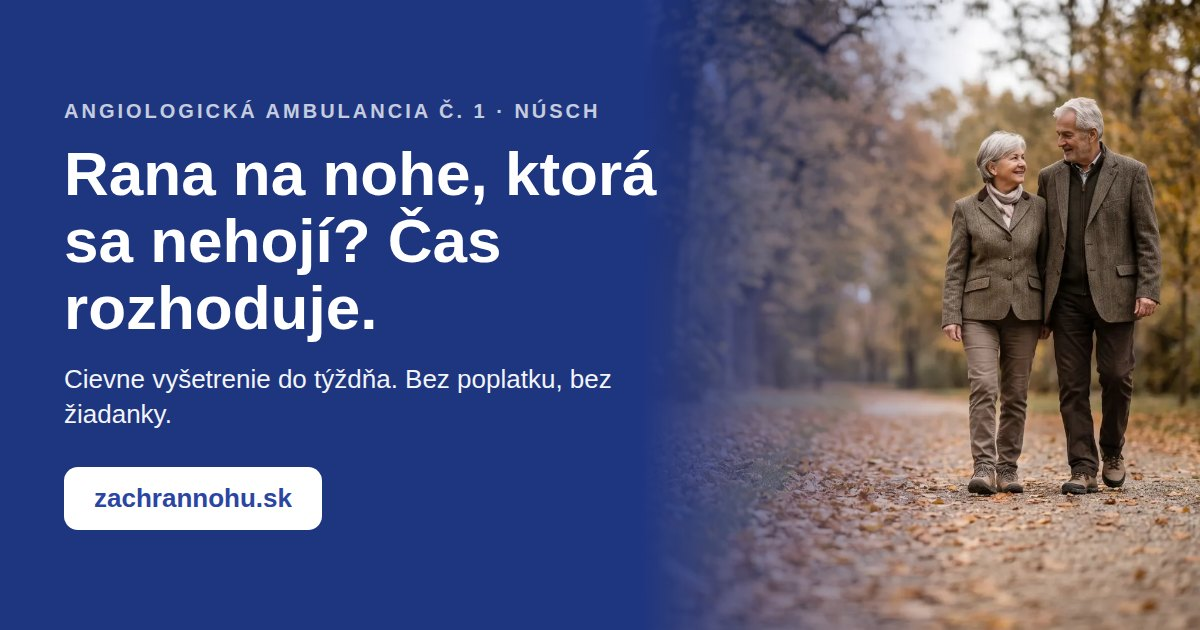
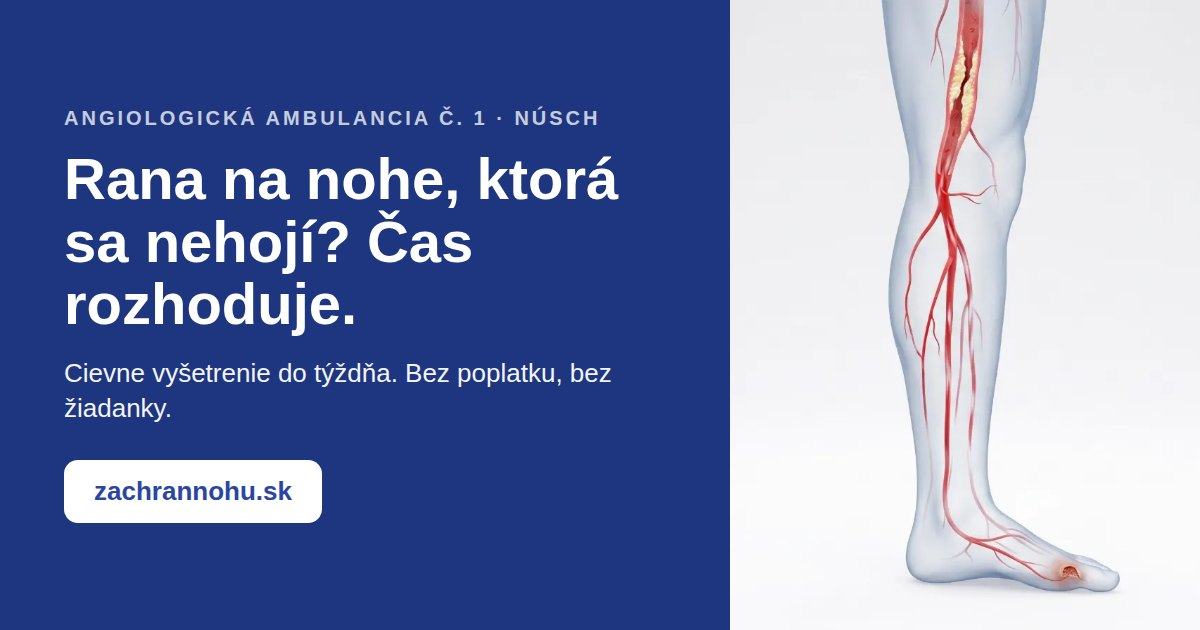
v98: „Zachráň nohu" – hero s 3D nohou, pár v záverečnej výzve
- hero ako dvojdielna karta: vľavo modrý panel s textom a čipmi (bez poplatku,
  bez žiadanky, termín do 7 dní, 15–20 min), vpravo svetlý panel s 3D nohou
  od okraja po okraj; na mobile noha pod textom
- „Prečo sa rana nehojí": detail zúženia (CSS výrez tej istej fotky) s popiskom
- záverečná výzva: fotka páru ako pozadie s modrým prekryvom (hero.webp → par.webp)
- og.jpg: nový koncept s nohou na svetlom paneli; APP_VERSION v98

Claude-Session: https://claude.ai/code/session_01GJei1xHoN9W4WKPBHnr7AA

diff --git a/src/zachrannohu.jsx b/src/zachrannohu.jsx
@@ -71,12 +71,12 @@ const goTo = (id) => (e) => {
 
 // fotografie v public/zachrannohu/*.webp (base podľa buildu: / alebo /beta/)
 const IMG = (name) => `${import.meta.env.BASE_URL}zachrannohu/${name}.webp`;
-function Photo({ name, alt, className = "", fallback = null, eager = false }) {
+function Photo({ name, alt, className = "", fallback = null, eager = false, testId = null, rounded = true }) {
   const [failed, setFailed] = useState(false);
   if (failed) return fallback;
   return (
     <img src={IMG(name)} alt={alt} loading={eager ? "eager" : "lazy"} decoding="async" onError={() => setFailed(true)}
-      data-testid={`img-${name}`} className={`block w-full h-auto object-cover rounded-[12px] ${className}`} />
+      data-testid={testId || `img-${name}`} className={`block w-full h-auto object-cover ${rounded ? "rounded-[12px]" : ""} ${className}`} />
   );
 }
 
@@ -180,20 +180,27 @@ export default function ZachranNohuLanding({ landing, exam, children }) {
         </div>
       </nav>
 
-      {/* hero */}
-      <header id="hero" className="relative overflow-hidden rounded-[15px] bg-gradient-to-r from-[#1E3580] to-[#2B46A2] text-white p-6 md:p-10 shadow-[0_2px_12px_rgba(0,0,0,0.08)] grid md:grid-cols-[3fr_2fr] gap-6 items-center">
-        <div>
-        <p className="text-[11px] md:text-xs font-bold tracking-widest text-white/70 uppercase">Angiologická ambulancia č. 1 · NÚSCH, a.s.</p>
-        <h1 data-testid="landing-title" className="text-3xl md:text-5xl font-extrabold leading-tight mt-2 max-w-2xl">Rana na nohe, ktorá sa nehojí? Čas rozhoduje.</h1>
-        <p className="text-base md:text-lg text-white/95 mt-3 max-w-xl">Rýchle cievne vyšetrenie <b>do týždňa</b>. Bez poplatku, bez žiadanky, 15 – 20 minút. Zistíme, či je príčinou nehojacej sa rany <b>zlé prekrvenie</b> — a nasmerujeme vás tam, kde vám pomôžu.</p>
-        <div className="flex flex-wrap gap-3 mt-5">
-          <a href="#objednat" onClick={goTo("objednat")} data-testid="landing-cta" className="inline-block bg-white text-[#2B46A2] font-bold text-base px-6 py-3 rounded-[12px] shadow hover:bg-[#F0F4FF]">
-            {landing?.cta || "Objednať sa — termín do týždňa"} ›
-          </a>
-          <a href="#samotest" onClick={goTo("samotest")} className="inline-block border-2 border-white/70 text-white font-semibold text-base px-5 py-3 rounded-[12px] hover:bg-white/10">Zistiť, či sa mám objednať ↓</a>
+      {/* hero: vľavo modrý panel s textom, vpravo svetlý panel s 3D nohou od okraja po okraj */}
+      <header id="hero" className="relative overflow-hidden rounded-[15px] shadow-[0_2px_12px_rgba(0,0,0,0.08)] grid md:grid-cols-[11fr_9fr]">
+        <div className="bg-gradient-to-br from-[#1E3580] to-[#2B46A2] text-white p-6 md:p-10 flex flex-col justify-center md:min-h-[440px]">
+          <p className="text-[11px] md:text-xs font-bold tracking-widest text-white/70 uppercase">Angiologická ambulancia č. 1 · NÚSCH, a.s.</p>
+          <h1 data-testid="landing-title" className="text-3xl md:text-[2.75rem] font-extrabold leading-tight mt-3">Rana na nohe, ktorá sa nehojí? Čas rozhoduje.</h1>
+          <p className="text-base md:text-lg text-white/95 mt-4">Zistíme, či je príčinou <b>zlé prekrvenie</b>, a nasmerujeme vás tam, kde vám pomôžu.</p>
+          <ul className="flex flex-wrap gap-2 mt-4" aria-label="Základné informácie">
+            {["bez poplatku", "bez žiadanky", "termín do 7 dní", "15 – 20 minút"].map((c) => (
+              <li key={c} className="text-xs md:text-sm font-semibold bg-white/15 border border-white/30 rounded-full px-3 py-1">{c}</li>
+            ))}
+          </ul>
+          <div className="flex flex-wrap gap-3 mt-6">
+            <a href="#objednat" onClick={goTo("objednat")} data-testid="landing-cta" className="inline-block bg-white text-[#2B46A2] font-bold text-base px-6 py-3 rounded-[12px] shadow hover:bg-[#F0F4FF]">
+              {landing?.cta || "Objednať sa — termín do týždňa"} ›
+            </a>
+            <a href="#samotest" onClick={goTo("samotest")} className="inline-block border-2 border-white/70 text-white font-semibold text-base px-5 py-3 rounded-[12px] hover:bg-white/10">Zistiť, či sa mám objednať ↓</a>
+          </div>
         </div>
+        <div className="bg-[#F3F6FB] h-[300px] md:h-auto">
+          <Photo name="tepna" eager rounded={false} testId="img-tepna-hero" alt="Zúžená tepna v nohe: za zúžením tečie do chodidla málo krvi a rana na palci sa nehojí" className="h-full w-full object-cover object-[50%_20%]" />
         </div>
-        <Photo name="hero" eager alt="Starší pár na prechádzke v jesennom parku" className="aspect-[3/2] shadow-lg" />
       </header>
 
       {/* čísla */}
@@ -217,7 +224,12 @@ export default function ZachranNohuLanding({ landing, exam, children }) {
               <p>Zúženie rastie <b>roky, potichu a často bez bolesti</b>. Pri cukrovke je citlivosť znížená, takže prvým znamením býva práve rana, ktorá sa nehojí, alebo zmena farby prsta.</p>
               <p className="bg-[#F0F4FF] rounded-[10px] p-3"><b className="text-[#1E3580]">Naša úloha:</b> rozlíšiť, či sa rana nehojí pre zlé prekrvenie. Ultrazvuk a meranie tlakov to spoľahlivo odhalia. Ak prekrvenie chýba, zúženú tepnu dnes vieme vo väčšine prípadov spriechodniť cez malý vpich, bez veľkej operácie.</p>
             </div>
-            <Photo name="tepna" alt="Zúžená tepna v nohe: za zúžením tečie do chodidla málo krvi a rana na palci sa nehojí" className="aspect-[4/3] bg-[#F0F4FF]" fallback={<ArteryIllustration />} />
+            <figure>
+              <div className="aspect-square overflow-hidden rounded-[12px] bg-[#F3F6FB]">
+                <Photo name="tepna" rounded={false} alt="Detail: usadenina (plak) zužuje tepnu v stehne, pod ňou je prietok slabý" className="h-full w-full object-cover object-[50%_10%] scale-[1.7] origin-[50%_10%]" fallback={<ArteryIllustration />} />
+              </div>
+              <figcaption className="text-xs text-slate-500 mt-2">Usadenina (plak) zužuje tepnu v stehne; pod zúžením je prietok slabý a rana na prste sa nehojí.</figcaption>
+            </figure>
           </div>
         </Card>
       </section>
@@ -294,11 +306,15 @@ export default function ZachranNohuLanding({ landing, exam, children }) {
         <div className="mt-3"><Myths /></div>
       </section>
 
-      {/* záverečná výzva */}
-      <section className="rounded-[15px] bg-gradient-to-r from-[#1E3580] to-[#2B46A2] text-white p-6 md:p-10 text-center shadow-[0_2px_12px_rgba(0,0,0,0.08)]">
-        <h2 className="text-2xl md:text-4xl font-extrabold leading-tight">15 minút vyšetrenia. Roky chôdze po vlastných.</h2>
-        <p className="mt-3 text-white/90 max-w-xl mx-auto">Nehojaca sa rana nie je kozmetický problém. Čím skôr zistíme, či do nohy tečie dosť krvi, tým jednoduchšie ju vieme zachrániť.</p>
-        <a href="#objednat" onClick={goTo("objednat")} className="inline-block mt-5 bg-white text-[#2B46A2] font-bold text-base px-6 py-3 rounded-[12px] shadow hover:bg-[#F0F4FF]">Objednať sa — termín do týždňa ›</a>
+      {/* záverečná výzva: fotka páru ako pozadie, modrý prekryv */}
+      <section className="relative overflow-hidden rounded-[15px] text-white shadow-[0_2px_12px_rgba(0,0,0,0.08)] min-h-[360px] flex items-center">
+        <Photo name="par" alt="Starší pár na prechádzke v jesennom parku" rounded={false} className="absolute inset-0 h-full w-full object-cover object-[75%_50%]" />
+        <div className="absolute inset-0 bg-gradient-to-r from-[#1E3580]/90 via-[#1E3580]/70 to-[#2B46A2]/30" aria-hidden="true" />
+        <div className="relative p-6 md:p-10 max-w-xl">
+          <h2 className="text-2xl md:text-4xl font-extrabold leading-tight">15 minút vyšetrenia. Roky chôdze po vlastných.</h2>
+          <p className="mt-3 text-white/95">Nehojaca sa rana nie je kozmetický problém. Čím skôr zistíme, či do nohy tečie dosť krvi, tým jednoduchšie ju vieme zachrániť.</p>
+          <a href="#objednat" onClick={goTo("objednat")} className="inline-block mt-5 bg-white text-[#2B46A2] font-bold text-base px-6 py-3 rounded-[12px] shadow hover:bg-[#F0F4FF]">Objednať sa — termín do týždňa ›</a>
+        </div>
       </section>
 
       {/* objednanie */}

diff --git a/src/App.jsx b/src/App.jsx
@@ -10,7 +10,7 @@ import { MfaEnroll, MfaChallenge } from "./mfa.jsx";
 
 // Provizórny prístupový kód pre demo režim bez Supabase — nie je to reálne
 // zabezpečenie. V Supabase režime ho nahrádza prihlásenie cez Supabase Auth.
-const APP_VERSION = "v97";
+const APP_VERSION = "v98";
 
 // Režim nasadenia: "patient" = verejná stránka len s objednávaním,
 // "admin" = interný systém pracoviska na samostatnej adrese,
